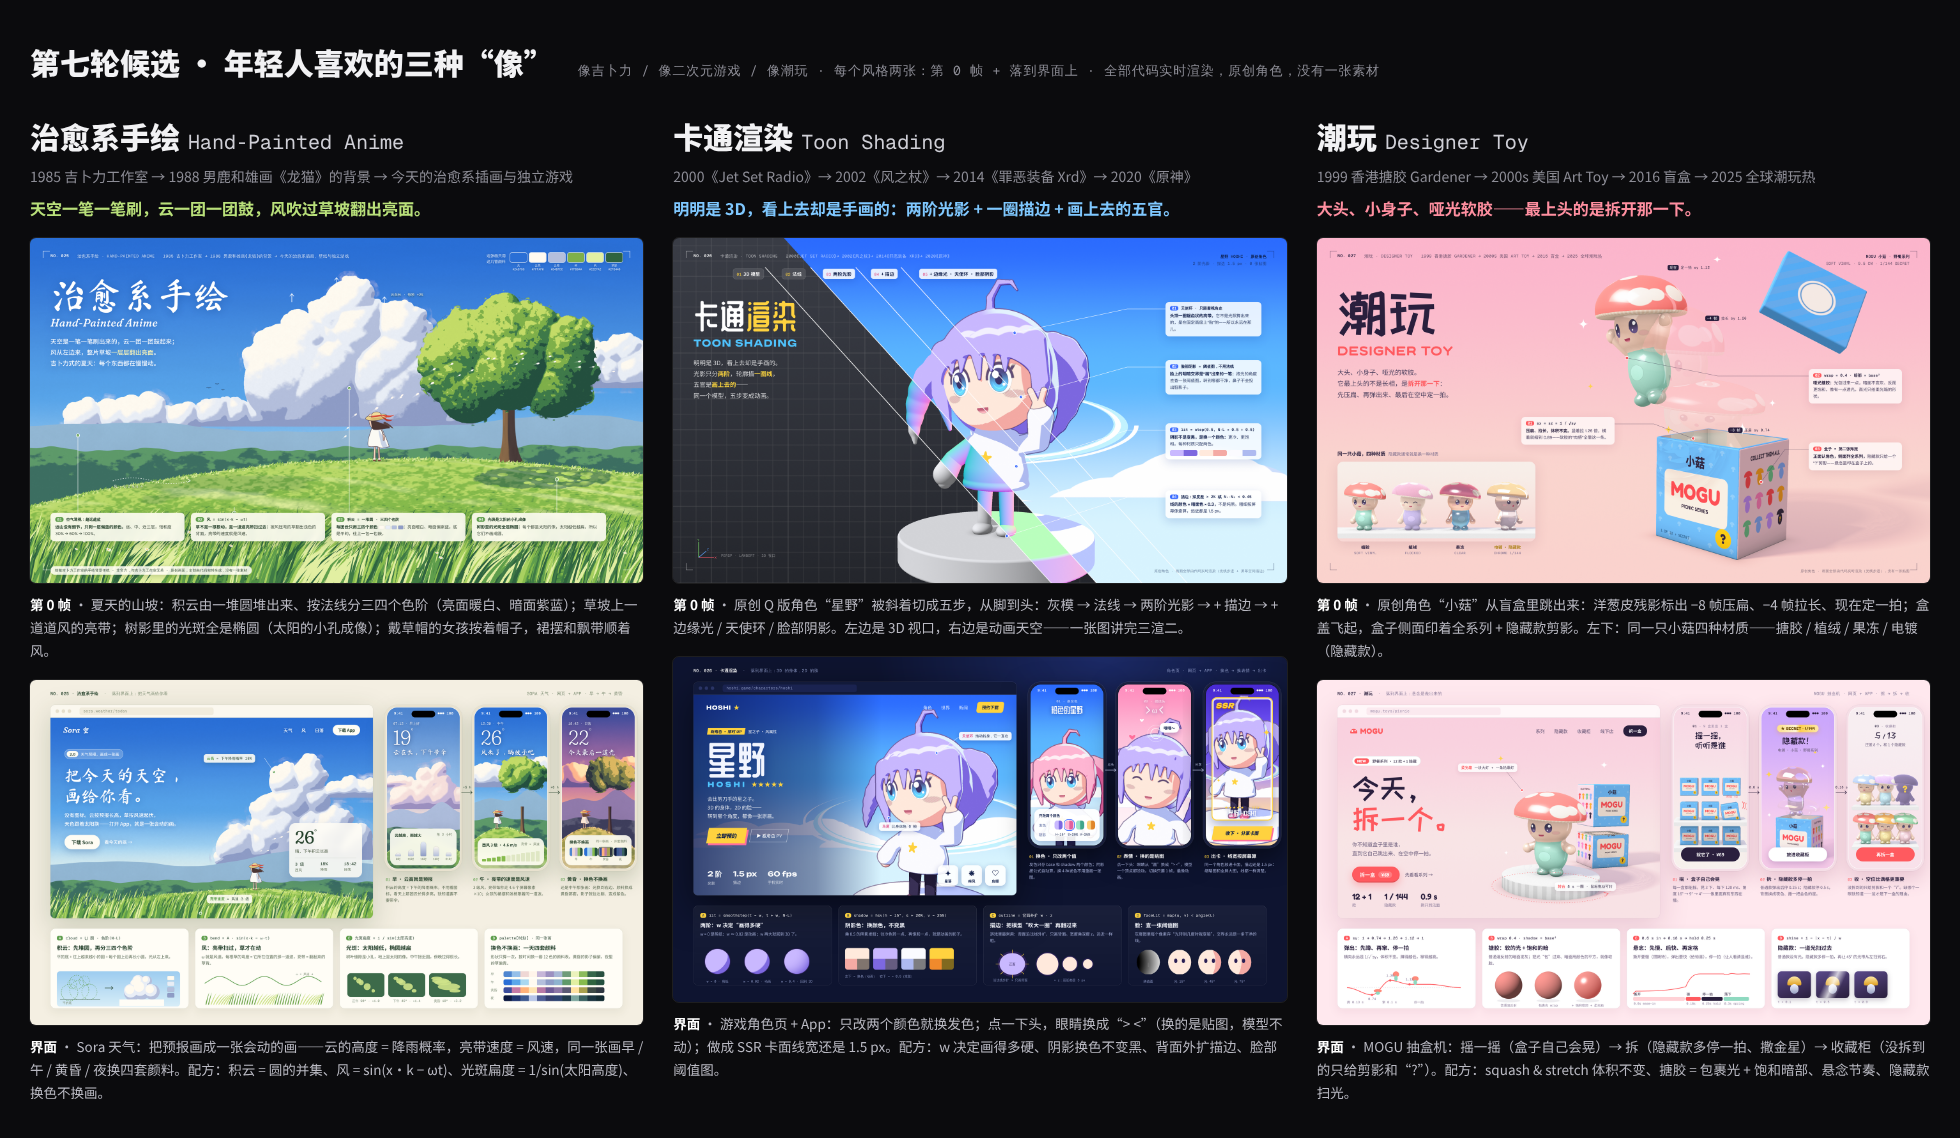
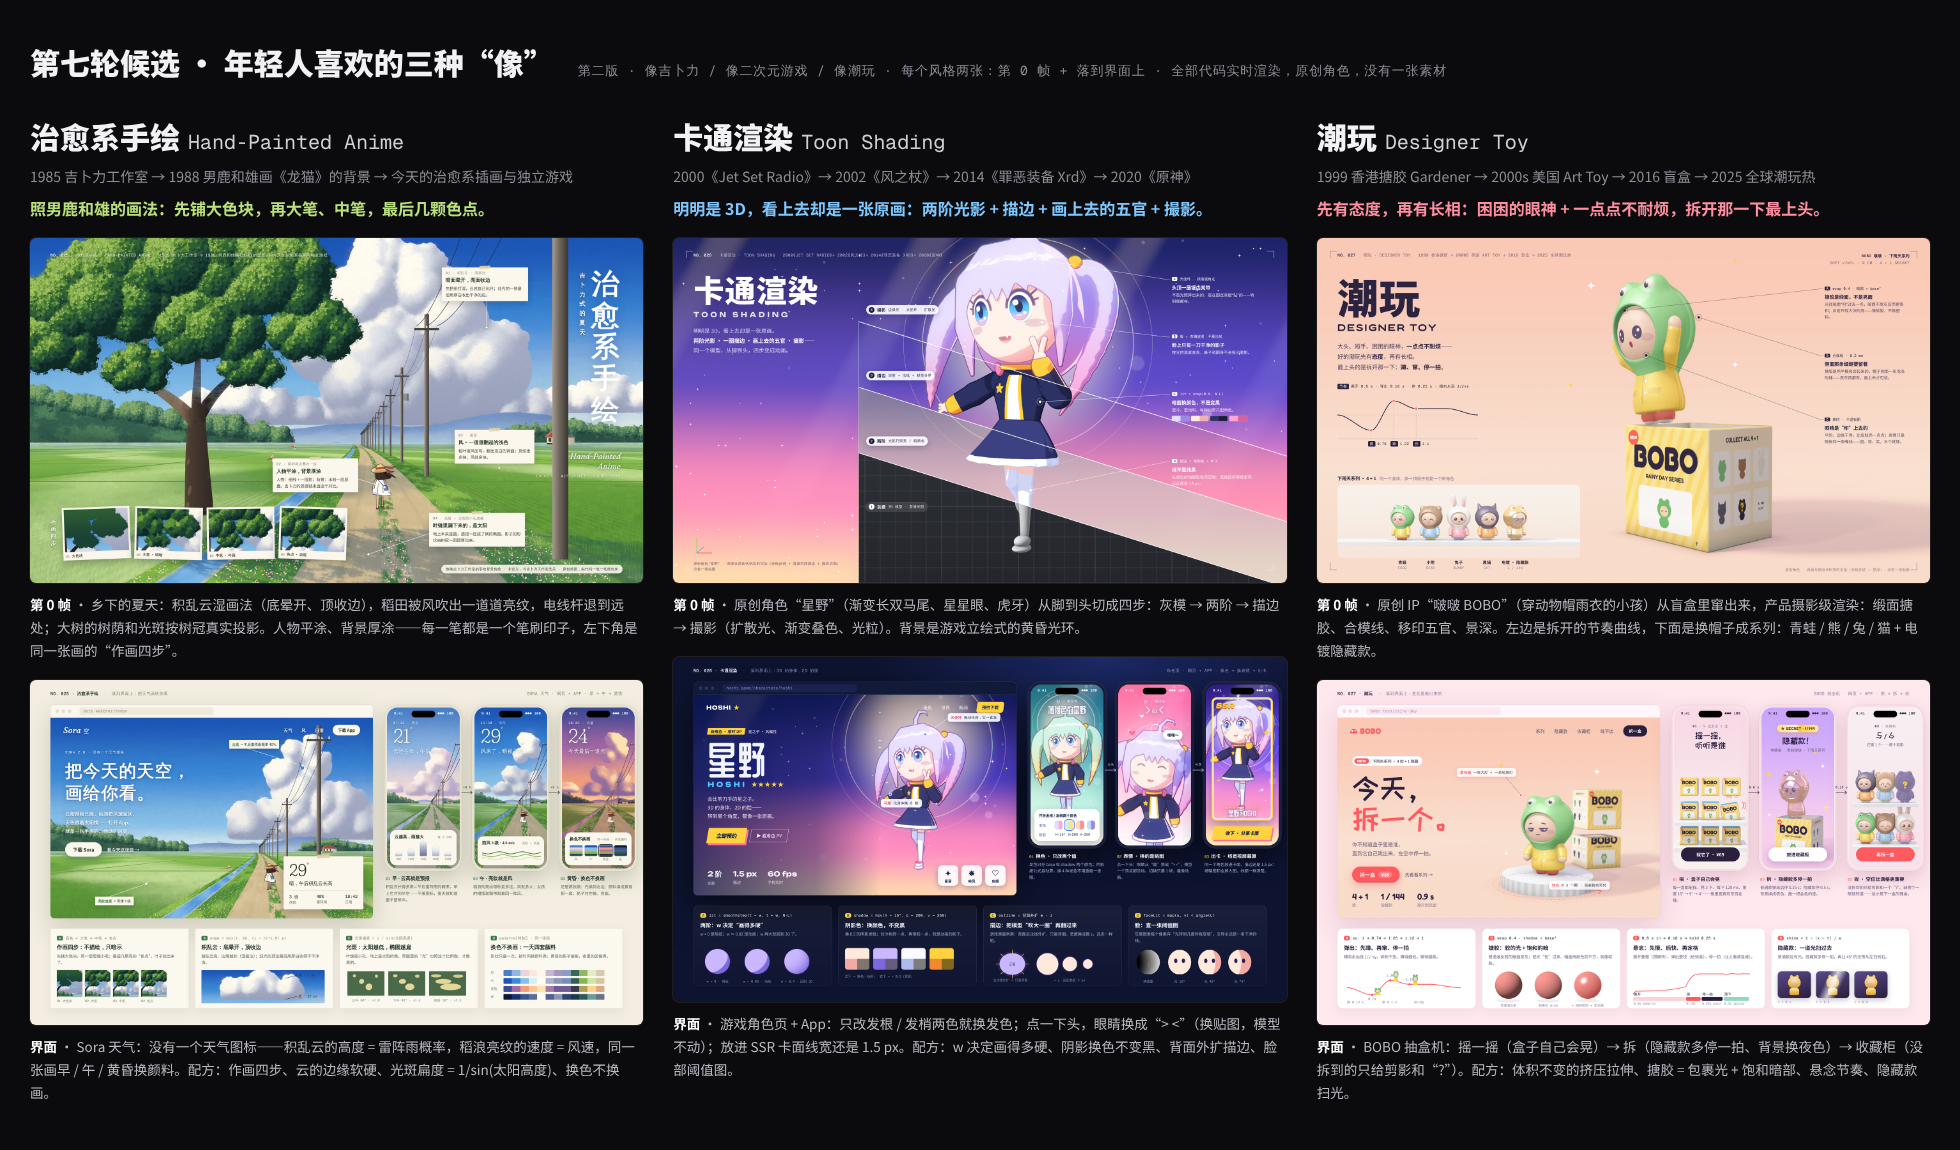
drafts: 第七轮候选第二版对比图 + README 记录三个风格的改法
Claude-Session: https://claude.ai/code/session_01F4C1Cy2jjVA7nvyqrUyDuc

diff --git a/drafts/candidates-7.html b/drafts/candidates-7.html
@@ -27,34 +27,34 @@ html, body { width: 1960px; background: #0b0b0d; color: #f2f2f4; font-family: No
 </head>
 <body>
 <div class="wrap">
-  <div class="head"><h1>第七轮候选 · 年轻人喜欢的三种“像”</h1><span>像吉卜力 / 像二次元游戏 / 像潮玩 · 每个风格两张：第 0 帧 + 落到界面上 · 全部代码实时渲染，原创角色，没有一张素材</span></div>
+  <div class="head"><h1>第七轮候选 · 年轻人喜欢的三种“像”</h1><span>第二版 · 像吉卜力 / 像二次元游戏 / 像潮玩 · 每个风格两张：第 0 帧 + 落到界面上 · 全部代码实时渲染，原创角色，没有一张素材</span></div>
   <div class="grid">
     <div class="col c1">
       <h2>治愈系手绘<small>Hand-Painted Anime</small></h2>
       <div class="line">1985 吉卜力工作室 → 1988 男鹿和雄画《龙猫》的背景 → 今天的治愈系插画与独立游戏</div>
-      <div class="one">天空一笔一笔刷，云一团一团鼓，风吹过草坡翻出亮面。</div>
+      <div class="one">照男鹿和雄的画法：先铺大色块，再大笔、中笔，最后几颗色点。</div>
       <img src="hand-painted/png/cover.png">
-      <div class="cap"><b>第 0 帧</b> · 夏天的山坡：积云由一堆圆堆出来、按法线分三四个色阶（亮面暖白、暗面紫蓝）；草坡上一道道风的亮带；树影里的光斑全是椭圆（太阳的小孔成像）；戴草帽的女孩按着帽子，裙摆和飘带顺着风。</div>
+      <div class="cap"><b>第 0 帧</b> · 乡下的夏天：积乱云湿画法（底晕开、顶收边），稻田被风吹出一道道亮纹，电线杆退到远处；大树的树荫和光斑按树冠真实投影。人物平涂、背景厚涂——每一笔都是一个笔刷印子，左下角是同一张画的“作画四步”。</div>
       <img src="hand-painted/png/ui.png">
-      <div class="cap"><b>界面</b> · Sora 天气：把预报画成一张会动的画——云的高度 = 降雨概率，亮带速度 = 风速，同一张画早 / 午 / 黄昏 / 夜换四套颜料。配方：积云 = 圆的并集、风 = sin(x·k − ωt)、光斑扁度 = 1/sin(太阳高度)、换色不换画。</div>
+      <div class="cap"><b>界面</b> · Sora 天气：没有一个天气图标——积乱云的高度 = 雷阵雨概率，稻浪亮纹的速度 = 风速，同一张画早 / 午 / 黄昏换颜料。配方：作画四步、云的边缘软硬、光斑扁度 = 1/sin(太阳高度)、换色不换画。</div>
     </div>
     <div class="col c2">
       <h2>卡通渲染<small>Toon Shading</small></h2>
       <div class="line">2000《Jet Set Radio》→ 2002《风之杖》→ 2014《罪恶装备 Xrd》→ 2020《原神》</div>
-      <div class="one">明明是 3D，看上去却是手画的：两阶光影 + 一圈描边 + 画上去的五官。</div>
+      <div class="one">明明是 3D，看上去却是一张原画：两阶光影 + 描边 + 画上去的五官 + 撮影。</div>
       <img src="toon-shading/png/cover.png">
-      <div class="cap"><b>第 0 帧</b> · 原创 Q 版角色“星野”被斜着切成五步，从脚到头：灰模 → 法线 → 两阶光影 → + 描边 → + 边缘光 / 天使环 / 脸部阴影。左边是 3D 视口，右边是动画天空——一张图讲完三渲二。</div>
+      <div class="cap"><b>第 0 帧</b> · 原创角色“星野”（渐变长双马尾、星星眼、虎牙）从脚到头切成四步：灰模 → 两阶 → 描边 → 撮影（扩散光、渐变叠色、光粒）。背景是游戏立绘式的黄昏光环。</div>
       <img src="toon-shading/png/ui.png">
-      <div class="cap"><b>界面</b> · 游戏角色页 + App：只改两个颜色就换发色；点一下头，眼睛换成“&gt; &lt;”（换的是贴图，模型不动）；做成 SSR 卡面线宽还是 1.5 px。配方：w 决定画得多硬、阴影换色不变黑、背面外扩描边、脸部阈值图。</div>
+      <div class="cap"><b>界面</b> · 游戏角色页 + App：只改发根 / 发梢两色就换发色；点一下头，眼睛换成“&gt; &lt;”（换贴图，模型不动）；放进 SSR 卡面线宽还是 1.5 px。配方：w 决定画得多硬、阴影换色不变黑、背面外扩描边、脸部阈值图。</div>
     </div>
     <div class="col c3">
       <h2>潮玩<small>Designer Toy</small></h2>
       <div class="line">1999 香港搪胶 Gardener → 2000s 美国 Art Toy → 2016 盲盒 → 2025 全球潮玩热</div>
-      <div class="one">大头、小身子、哑光软胶——最上头的是拆开那一下。</div>
+      <div class="one">先有态度，再有长相：困困的眼神 + 一点点不耐烦，拆开那一下最上头。</div>
       <img src="designer-toy/png/cover.png">
-      <div class="cap"><b>第 0 帧</b> · 原创角色“小菇”从盲盒里跳出来：洋葱皮残影标出 −8 帧压扁、−4 帧拉长、现在定一拍；盒盖飞起，盒子侧面印着全系列 + 隐藏款剪影。左下：同一只小菇四种材质——搪胶 / 植绒 / 果冻 / 电镀（隐藏款）。</div>
+      <div class="cap"><b>第 0 帧</b> · 原创 IP“啵啵 BOBO”（穿动物帽雨衣的小孩）从盲盒里窜出来，产品摄影级渲染：缎面搪胶、合模线、移印五官、景深。左边是拆开的节奏曲线，下面是换帽子成系列：青蛙 / 熊 / 兔 / 猫 + 电镀隐藏款。</div>
       <img src="designer-toy/png/ui.png">
-      <div class="cap"><b>界面</b> · MOGU 抽盒机：摇一摇（盒子自己会晃）→ 拆（隐藏款多停一拍、撒金星）→ 收藏柜（没拆到的只给剪影和“?”）。配方：squash &amp; stretch 体积不变、搪胶 = 包裹光 + 饱和暗部、悬念节奏、隐藏款扫光。</div>
+      <div class="cap"><b>界面</b> · BOBO 抽盒机：摇一摇（盒子自己会晃）→ 拆（隐藏款多停一拍、背景换夜色）→ 收藏柜（没拆到的只给剪影和“?”）。配方：体积不变的挤压拉伸、搪胶 = 包裹光 + 饱和暗部、悬念节奏、隐藏款扫光。</div>
     </div>
   </div>
 </div>

diff --git a/drafts/README.md b/drafts/README.md
@@ -29,7 +29,7 @@
 | 液态金属 Liquid Chrome · `liquid-chrome/` | **第三版已出（2026-11-06）**：[`liquid-chrome/film/liquid-chrome-film.mp4`](liquid-chrome/film/liquid-chrome-film.mp4)（18 秒 · 1080p60 · 18 MB）。 |
 | 点云 Point Cloud · `point-cloud/` | **第四版已出（2026-11-06）**：[`point-cloud/film/point-cloud-film.mp4`](point-cloud/film/point-cloud-film.mp4)（19.5 秒 · 1080p60 · 41 MB）。 |
 | 热成像 Thermal · `thermal/` | 候选图和温度场源码 |
-| 第七轮候选：治愈系手绘 / 卡通渲染 / 潮玩 · `hand-painted/` `toon-shading/` `designer-toy/` | **图已出（2026-11-07），等主人看**，见下 |
+| 第七轮候选：治愈系手绘 / 卡通渲染 / 潮玩 · `hand-painted/` `toon-shading/` `designer-toy/` | **第二版图已出（2026-11-08），等主人看**，见下 |
 | 第四轮候选：低多边形 / 体素 / 等距微缩（从参考视频提取） | 等主人选，见下 |
 | 第三轮候选：赛博朋克 / 城市流行 / 膨胀风 | 等主人选（与第四轮一起看） |
 | 第二轮候选：风格派 / 图形统计 / 无限画布 | 主人觉得一般（太像设计史教科书），图留着 |
@@ -60,6 +60,12 @@
 | 网页 / App | Sora 天气：把预报画成会动的画——云高 = 降雨概率，亮带速度 = 风速；同一张画早 / 午 / 黄昏 / 夜四套颜料 | 游戏角色页 + App：只改两色换发色；点头换表情（换贴图，模型不动）；SSR 卡面 | MOGU 抽盒机：摇一摇（盒子会晃）→ 拆（隐藏款多停一拍）→ 收藏柜（缺的只给剪影） |
 | 对设计师有用 | 积云 = 圆的并集 + 色阶、风 = sin(x·k − ωt)、光斑扁度 = 1/sin(太阳高度)、换色不换画 | lit = smoothstep(t ± w)、阴影换色不变黑（H −15° / S +20% / V −25%）、背面外扩描边、脸部阈值图、天使环 | squash & stretch（sx = 1/√sy）、搪胶 = wrap 0.4 + 暗部 base²、悬念节奏（0.6 s → 0.18 s → 停 0.25 s）、隐藏款扫光 |
 | 技术路线 | CPU 用圆堆高度场 + 山脊线，GPU 按法线分色阶 + 笔触噪声 + 风带 + 光斑；前景草叶 / 花瓣 / 女孩用 Canvas 2D（`hand-painted/paint.js`） | WebGL2 光线步进写 4 张缓冲（成片 / 法线+深度 / 灰模 / 两阶），第二遍按斜条拼阶段、从深度和法线跳变里找描边（`toon-shading/toon.js`） | WebGL2 光线步进：SDF 角色 + 盲盒（印刷面 Canvas 现画成纹理），摄影棚柔光箱环境，洋葱皮第二次步进叠上去（`designer-toy/toy.js`） |
+
+**从第二版到第三版**
+
+- **治愈系手绘**：先查了男鹿和雄的画法——Nicker 广告色（水粉）、纸先打湿再上天空、先大块后细节、最后点“色点”暗示叶子，“不描绘，只暗示”；人物是平涂赛璐璐，叠在厚涂背景上。第一版是“圆 + 色阶”的矢量感，所以渲染器整个重写（`paint.js`）：① 底色着色器铺大色块（积乱云湿边、稻田透视、水渠、远山空气透视）② 实例化笔触，每一笔是一个笔刷印子，方向跟着形体走、颜色取自底色再抖一点 ③ 四层笔从大到小 ④ 色点。树荫按树冠一团团真实投影，光斑因此是横的椭圆。构图换成乡下的夏天：积乱云 + 稻田 + 土路 + 电线杆 + 大树 + 戴草帽的女孩（`scene.js`、`girl.js`）。封面左下放同一张画的“作画四步”。
+- **卡通渲染**：角色重做（渐变长双马尾、星星眼 + 虎牙、夹克 + 百褶裙 + 过膝袜 + 厚底鞋），头发用“大形”法线算明暗，不再一簇一块脏影；加上动画成片“贵”的那一步——**撮影**（扩散光、渐变叠色、轻微色差、光粒）；背景换成游戏立绘式的黄昏光环。封面从脚到头四条斜带：灰模 → 两阶 → 描边 → 撮影。
+- **潮玩**：IP 重做成“啵啵 BOBO”——穿动物帽雨衣的小孩，困困的半睁眼 + 一颗小牙（先有态度，再有长相）；同一个身体换帽子成系列（青蛙 / 熊 / 兔 / 猫 + 电镀隐藏款）。渲染做到产品摄影：缎面搪胶（糊的反射 + 小高光）、帽子侧面的合模线、移印五官、景深。封面放拆开的节奏曲线和系列货架，去掉了洋葱皮残影。
 
 生成方式：`node drafts/_lib/shot-gl.cjs drafts/<风格>/cover.html /tmp/x.png 1920 1080 2`（`ui.html` 同理），4K 截完缩到 1080p 存进 `png/`；对比图 `node drafts/_lib/shot.cjs drafts/candidates-7.html drafts/candidates-7.png 1960 1138`。新用到的字体（站酷快乐体、马善政毛笔楷书、Fraunces）已加进 `scripts/fetch_fonts.sh`。
 
